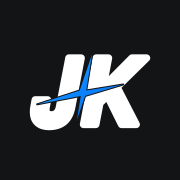
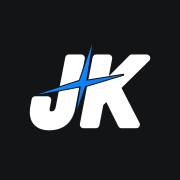
아이콘 다듬기: 별빛 위치를 올려 J 훅이 온전히 보이게 조정

diff --git a/index.html b/index.html
@@ -57,7 +57,7 @@
   <div class="wrap header-inner">
     <a class="brand" href="#/" aria-label="전국, 첫 화면">
       <span class="brand-mark" aria-hidden="true">
-        <svg viewBox="7.54 16.81 48.79 31.19" aria-hidden="true" focusable="false">
+        <svg viewBox="7.54 12.93 48.79 35.07" aria-hidden="true" focusable="false">
           <defs>
             <linearGradient id="bm-sp" x1="0.1" y1="0.15" x2="0.9" y2="0.9">
               <stop offset="0" stop-color="#22A6FF"></stop>
@@ -65,11 +65,11 @@
               <stop offset="1" stop-color="#0A6FE0"></stop>
             </linearGradient>
           </defs>
-          <g transform="translate(-7.54 -16.81)">
+                    <g transform="translate(-7.54 -12.93)">
             <path d="M23.59 18.88H28.45L24.72 38.28Q23.29 45.95 15.68 45.95Q12.83 45.95 11.21 44.45Q9.59 42.96 9.59 40.33Q9.59 39.11 9.82 37.99L10.30 35.40H15.16L14.64 38.17Q14.52 38.78 14.52 39.40Q14.52 40.26 15.11 40.80Q15.71 41.34 16.65 41.34Q19.25 41.34 19.86 38.28Z" fill="#FFFFFF" stroke="#FFFFFF" stroke-width="2.90" stroke-linejoin="round"></path>
             <path d="M35.85 36.70 34.23 45.12H29.37L34.39 18.88H39.25L37.05 30.40L48.51 18.88H54.28L42.59 30.36L50.20 45.12H44.40L38.80 33.82Z" fill="#FFFFFF" stroke="#FFFFFF" stroke-width="2.90" stroke-linejoin="round"></path>
-            <path d="M 11.07 37.17 L 27.85 31.70 L 32.75 17.41 L 30.45 31.70 L 45.05 29.33 L 30.01 33.86 L 26.78 43.29 L 28.29 33.86 L 11.07 37.17 Z" fill="none" stroke="#131416" stroke-width="0.80" stroke-linejoin="round"></path>
-            <path d="M 11.07 37.17 L 27.85 31.70 L 32.75 17.41 L 30.45 31.70 L 45.05 29.33 L 30.01 33.86 L 26.78 43.29 L 28.29 33.86 L 11.07 37.17 Z" fill="url(#bm-sp)"></path>
+            <path d="M 11.07 33.30 L 27.85 27.82 L 32.75 13.53 L 30.45 27.82 L 45.05 25.45 L 30.01 29.98 L 26.78 39.41 L 28.29 29.98 L 11.07 33.30 Z" fill="none" stroke="#131416" stroke-width="0.80" stroke-linejoin="round"></path>
+            <path d="M 11.07 33.30 L 27.85 27.82 L 32.75 13.53 L 30.45 27.82 L 45.05 25.45 L 30.01 29.98 L 26.78 39.41 L 28.29 29.98 L 11.07 33.30 Z" fill="url(#bm-sp)"></path>
           </g>
         </svg>
       </span>

diff --git a/404.html b/404.html
@@ -60,7 +60,7 @@
 <body>
   <div class="card">
     <span class="mark" aria-hidden="true">
-      <svg viewBox="7.54 16.81 48.79 31.19" aria-hidden="true" focusable="false">
+      <svg viewBox="7.54 12.93 48.79 35.07" aria-hidden="true" focusable="false">
         <defs>
           <linearGradient id="m-sp" x1="0.1" y1="0.15" x2="0.9" y2="0.9">
             <stop offset="0" stop-color="#22A6FF"></stop>
@@ -68,11 +68,11 @@
             <stop offset="1" stop-color="#0A6FE0"></stop>
           </linearGradient>
         </defs>
-        <g transform="translate(-7.54 -16.81)">
+                <g transform="translate(-7.54 -12.93)">
           <path d="M23.59 18.88H28.45L24.72 38.28Q23.29 45.95 15.68 45.95Q12.83 45.95 11.21 44.45Q9.59 42.96 9.59 40.33Q9.59 39.11 9.82 37.99L10.30 35.40H15.16L14.64 38.17Q14.52 38.78 14.52 39.40Q14.52 40.26 15.11 40.80Q15.71 41.34 16.65 41.34Q19.25 41.34 19.86 38.28Z" fill="#FFFFFF" stroke="#FFFFFF" stroke-width="2.90" stroke-linejoin="round"></path>
           <path d="M35.85 36.70 34.23 45.12H29.37L34.39 18.88H39.25L37.05 30.40L48.51 18.88H54.28L42.59 30.36L50.20 45.12H44.40L38.80 33.82Z" fill="#FFFFFF" stroke="#FFFFFF" stroke-width="2.90" stroke-linejoin="round"></path>
-          <path d="M 11.07 37.17 L 27.85 31.70 L 32.75 17.41 L 30.45 31.70 L 45.05 29.33 L 30.01 33.86 L 26.78 43.29 L 28.29 33.86 L 11.07 37.17 Z" fill="none" stroke="#131416" stroke-width="0.80" stroke-linejoin="round"></path>
-          <path d="M 11.07 37.17 L 27.85 31.70 L 32.75 17.41 L 30.45 31.70 L 45.05 29.33 L 30.01 33.86 L 26.78 43.29 L 28.29 33.86 L 11.07 37.17 Z" fill="url(#m-sp)"></path>
+          <path d="M 11.07 33.30 L 27.85 27.82 L 32.75 13.53 L 30.45 27.82 L 45.05 25.45 L 30.01 29.98 L 26.78 39.41 L 28.29 29.98 L 11.07 33.30 Z" fill="none" stroke="#131416" stroke-width="0.80" stroke-linejoin="round"></path>
+          <path d="M 11.07 33.30 L 27.85 27.82 L 32.75 13.53 L 30.45 27.82 L 45.05 25.45 L 30.01 29.98 L 26.78 39.41 L 28.29 29.98 L 11.07 33.30 Z" fill="url(#m-sp)"></path>
         </g>
       </svg>
     </span>
